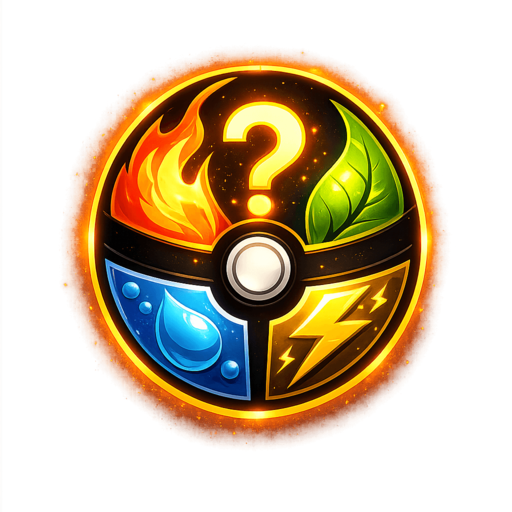
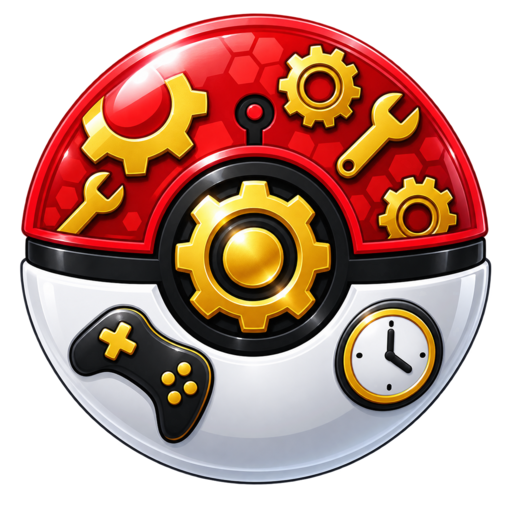
refactor: nueva img para pokebeck

diff --git a/index.html b/index.html
@@ -215,11 +215,11 @@
             </div>
             
             <div class="portfolio-grid">
-                <!-- Proyecto: Poketype -->
+                <!-- Proyecto: Pokebeck -->
                 <div class="portfolio-card">
                     <div class="portfolio-image">
                         <div class="portfolio-placeholder">
-                            <img src="/assets/images/icon-512.webp" alt="Pokebeck Hub">
+                            <img src="/assets/images/icon-transparente-512px.png" alt="Pokebeck Hub">
                         </div>
                     </div>
                     <div class="portfolio-content">
